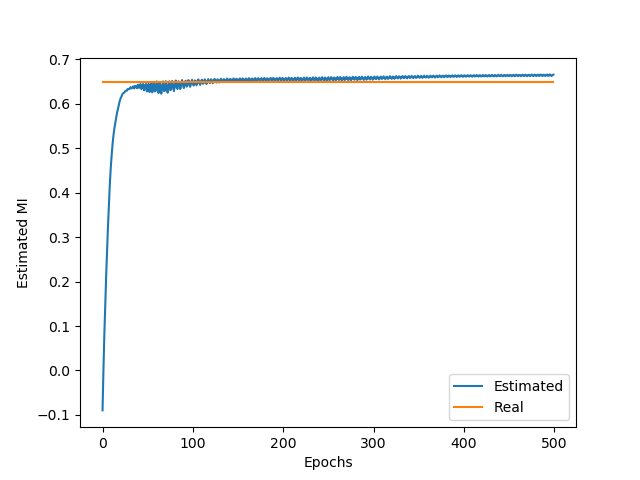
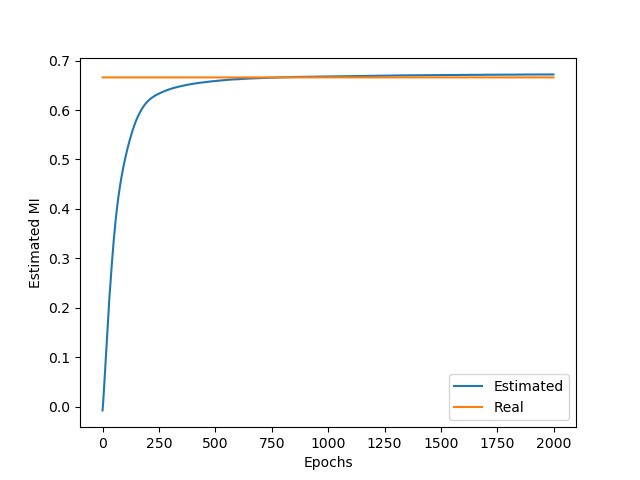
Added unbiased estimator

diff --git a/mine/models.py b/mine/models.py
@@ -3,65 +3,78 @@ import torch
 from torch.autograd import Variable
 import numpy as np
 import torch.nn.functional as F
-from mine.utils import logSumExp
+from torch.utils.data import DataLoader
+from mine.utils import logSumExp, RegressionDataset
 
 
-# noinspection PyUnresolvedReferences,PyTypeChecker
-class MLP(nn.Module):
-    def __init__(self, inputSpaceDim, outputSpaceDim, archSpecs):
-        super(MLP, self).__init__()
-        layerSizes = [inputSpaceDim] + archSpecs['layerSizes'] + [outputSpaceDim]
-        useBias = archSpecs['useBias']
+# noinspection PyArgumentList,PsyTypeChecker,PyUnresolvedReferences,PyTypeChecker
+class MINE(nn.Module):
+    def __init__(self, inputSpaceDim, archSpecs, divergenceMeasure='KL', learningRate=1e-4):
+        super().__init__()
+        layerSizes = archSpecs['layerSizes'] + [1]
         self.activationFunctions = archSpecs['activationFunctions']
-        assert len(self.activationFunctions) == (len(layerSizes) - 1)
+        self.activationFunctions.append('linear')
+        assert len(self.activationFunctions) == (len(layerSizes))
+
+        self.inputHeadX = nn.Linear(inputSpaceDim, layerSizes[0])
+        self.inputHeadY = nn.Linear(inputSpaceDim, layerSizes[0])
+
         self.layers = nn.ModuleList()
         for l in range(len(layerSizes) - 1):
-            self.layers.append(nn.Linear(layerSizes[l], layerSizes[l + 1],
-                                         bias=useBias if l < (len(layerSizes) - 2) else True))
+            self.layers.append(nn.Linear(layerSizes[l], layerSizes[l + 1]))
+        self.divergenceMeasure = divergenceMeasure
+        self.optimizer = torch.optim.Adam(self.parameters(), lr=learningRate)
 
-    def forward(self, x):
+    def forward(self, x, y):
+        x = torch.relu(self.inputHeadX(torch.unsqueeze(x, 1)) + self.inputHeadY(torch.unsqueeze(y, 1)))
         for l in range(len(self.layers)):
-            activationFunction = self.activationFunctions[l]
+            activationFunction = self.activationFunctions[l + 1]
             x = self.layers[l](x) if activationFunction.lower() == 'linear' \
                 else eval('torch.' + activationFunction.lower())(self.layers[l](x))
         return x
 
-
-# noinspection PyArgumentList,PyTypeChecker
-class MINE(MLP):
-    def __init__(self, inputSpaceDim, archSpecs, divergenceMeasure='KL', learningRate=0.01):
-        archSpecs['activationFunctions'].append('linear')
-        super().__init__(inputSpaceDim * 2, 1, archSpecs)
-        self.divergenceMeasure = divergenceMeasure
-        self.optimizer = torch.optim.Adam(self.parameters(), lr=learningRate)
-
-    def calcMI(self, xSamplesJoint, ySamplesJoint, xSamplesMarginal, ySamplesMarginal, numEpochs=500):
+    def calcMI(self, xSamplesJoint, ySamplesJoint, xSamplesMarginal, ySamplesMarginal, numEpochs=500,
+               batchSize=None, smoothCoeff=0.01):
         numSamplesJoint = xSamplesJoint.shape[0]
         assert ySamplesJoint.shape[0] == numSamplesJoint
         assert ySamplesMarginal.shape[0] == xSamplesMarginal.shape[0]
 
-        samples = np.concatenate((np.concatenate((xSamplesJoint, ySamplesJoint), axis=1),
-                                  np.concatenate((xSamplesMarginal, ySamplesMarginal), axis=1)), axis=0)
-        samples = Variable(torch.from_numpy(samples).type(torch.FloatTensor), requires_grad=False)
-        lossHistory = []
+        if batchSize is None:
+            batchSize = xSamplesJoint.shape[0]
+
+        samplesJoint = Variable(torch.from_numpy(np.concatenate((xSamplesJoint, ySamplesJoint), axis=1))
+                                .type(torch.FloatTensor), requires_grad=False)
+        samplesMarginal = Variable(torch.from_numpy(np.concatenate((xSamplesMarginal, ySamplesMarginal), axis=1))
+                                .type(torch.FloatTensor), requires_grad=False)
+
+        trainData = RegressionDataset(samplesJoint, samplesMarginal)
+        trainLoader = DataLoader(dataset=trainData, batch_size=int(batchSize), shuffle=True)
+
+        miHistory = []
+        movingAverage = 1.0
         mi = 0.0
         for epoch in range(numEpochs):
-            outputDiscriminator = self(samples)
-            scoreJoint = outputDiscriminator[:numSamplesJoint, :]
-            scoreMarginal = outputDiscriminator[numSamplesJoint:, :]
-            if self.divergenceMeasure == 'JS':
-                Ep = (np.log(2.0) - F.softplus(-scoreJoint)).mean()
-                En = (F.softplus(-scoreMarginal) + scoreMarginal - np.log(2.0)).mean()
-            elif self.divergenceMeasure == 'KL':
-                Ep = scoreJoint.mean()
-                En = logSumExp(scoreMarginal, 0) - np.log(scoreMarginal.size(0))
-            else:
-                raise NotImplementedError
-            mi = Ep - En
-            loss = -mi
-            self.zero_grad()
-            loss.backward()
-            self.optimizer.step()
-            self.optimizer.step()
-            lossHistory.append(loss.data.numpy())
-        return np.asscalar(mi.data.numpy()), -np.array(lossHistory)
+            for batchJoint, batchMarginal in trainLoader:
+                scoreJoint = self(batchJoint[:, 0], batchJoint[:, 1])
+                scoreMarginal = self(batchMarginal[:, 0], batchMarginal[:, 1])
+                if self.divergenceMeasure == 'JS':
+                    Ep = (np.log(2.0) - F.softplus(-scoreJoint)).mean()
+                    En = (F.softplus(-scoreMarginal) + scoreMarginal - np.log(2.0)).mean()
+                elif self.divergenceMeasure == 'KL':
+                    Ep = scoreJoint.mean()
+                    En = logSumExp(scoreMarginal, 0) - np.log(scoreMarginal.size(0))
+                else:
+                    raise NotImplementedError
+                mi = Ep - En
+                if self.divergenceMeasure == 'KL':
+                    movingAverage = (1 - smoothCoeff) * movingAverage + smoothCoeff * torch.mean(torch.exp(scoreMarginal))
+                    loss = -(torch.mean(scoreJoint) - (1 / movingAverage.mean()).detach() * torch.mean(
+                        torch.exp(scoreMarginal)))
+                else:
+                    loss = -mi
+                self.zero_grad()
+                loss.backward()
+                self.optimizer.step()
+                self.optimizer.step()
+            miHistory.append(mi.detach().numpy())
+        return np.asscalar(mi.data.numpy()), np.array(miHistory)

diff --git a/example.py b/example.py
@@ -5,7 +5,7 @@ from mine import MINE
 # Generates data by sampling from two correlated Gaussian variables
 dim = 1
 variance = 0.2
-sampleSize = 1000
+sampleSize = 2000
 
 xSamples = np.sign(np.random.normal(0., 1., [sampleSize, dim]))
 ySamples = xSamples + np.random.normal(0., np.sqrt(variance), [sampleSize, dim])
@@ -15,17 +15,17 @@ pyxPlus = np.exp(-(ySamples - 1) ** 2 / (2 * variance))
 
 mi = np.average(np.log(pyx / (0.5 * pyxMinus + 0.5 * pyxPlus)))
 
-miEstimator = MINE(1, archSpecs={
-    'layerSizes': [32],
-    'useBias': True,
-    'activationFunctions': ['relu']
-})
+miEstimator = MINE(dim, archSpecs={
+    'layerSizes': [32] * 1,
+    'activationFunctions': ['relu'] * 1
+}, divergenceMeasure='KL', learningRate=1e-3)
 
 
 ySamplesMarginal = np.random.permutation(ySamples)
 
 # noinspection PyUnresolvedReferences
-estimatedMI, estimationHistory = miEstimator.calcMI(xSamples, ySamples, xSamples, ySamplesMarginal)
+estimatedMI, estimationHistory = miEstimator.calcMI(xSamples, ySamples, xSamples, ySamplesMarginal,
+                                                    batchSize=sampleSize, numEpochs=2000)
 
 print("Real MI: {}, estimated MI: {}".format(mi, estimatedMI))
 epochs = np.arange(len(estimationHistory))

diff --git a/mine/utils.py b/mine/utils.py
@@ -1,7 +1,20 @@
 import torch
+from torch.utils.data import Dataset
 
 
 def logSumExp(x, axis=None):
     xMax = torch.max(x, axis)[0]
     y = torch.log((torch.exp(x - xMax)).sum(axis)) + xMax
     return y
+
+
+class RegressionDataset(Dataset):
+    def __init__(self, xTensor, yTensor):
+        self.x = xTensor
+        self.y = yTensor
+
+    def __getitem__(self, index):
+        return self.x[index], self.y[index]
+
+    def __len__(self):
+        return len(self.x)
